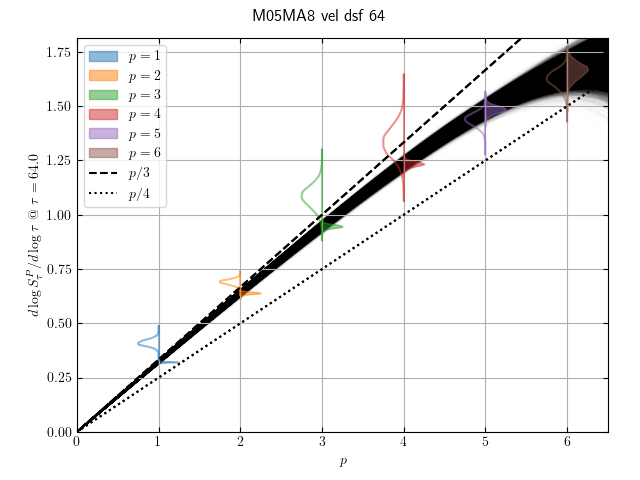
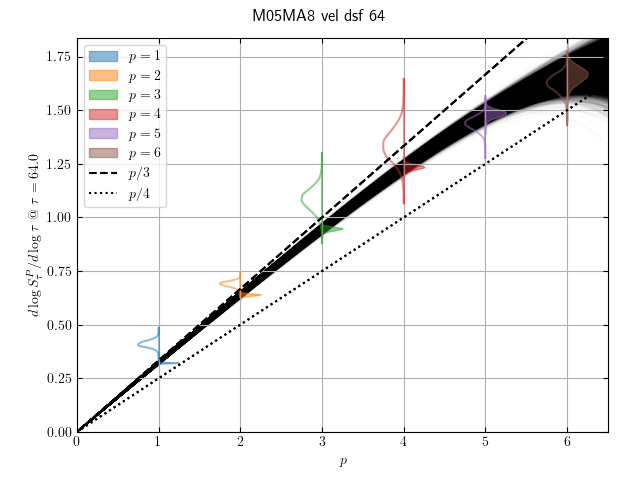
updated markdown

diff --git a/analysis/cita/sf-exp-fit-016-064.md b/analysis/cita/sf-exp-fit-016-064.md
@@ -19,7 +19,7 @@ When fitting assuming this relation, we infer `x`, `C0`, and `beta` and use that
 *Additionally*, we use the She-Leveque ansatz to relate the averaged scaling exponent rather than the logarithmic derivative at a specific value.
 The averaged exponent is defined as
 ```math
-    \left< \frac{d\log S_\tau^p}{d\log \tau} \right> = \frac{1}{\log(\tau_max/\tau_min)} \int\limits_{\log \tau_min}^{\log \tau_\max} d(\log \tau) \frac{d\log S_\tau^p}{\d \log \tau}
+    \left< \frac{d\log S_\tau^p}{d\log \tau} \right> = \frac{1}{\log(\tau_\max/\tau_\min)} \int\limits_{\log \tau_min}^{\log \tau_\max} d(\log \tau) \frac{d\log S_\tau^p}{d \log \tau} = \frac{\log(S_{\tau_\max}^p / S_{\tau_\min}^p)}{\log(\tau_\max/\tau_\min)}
 ```
 which is the integral of a total derivative and easy to evaluate analytically.
  
